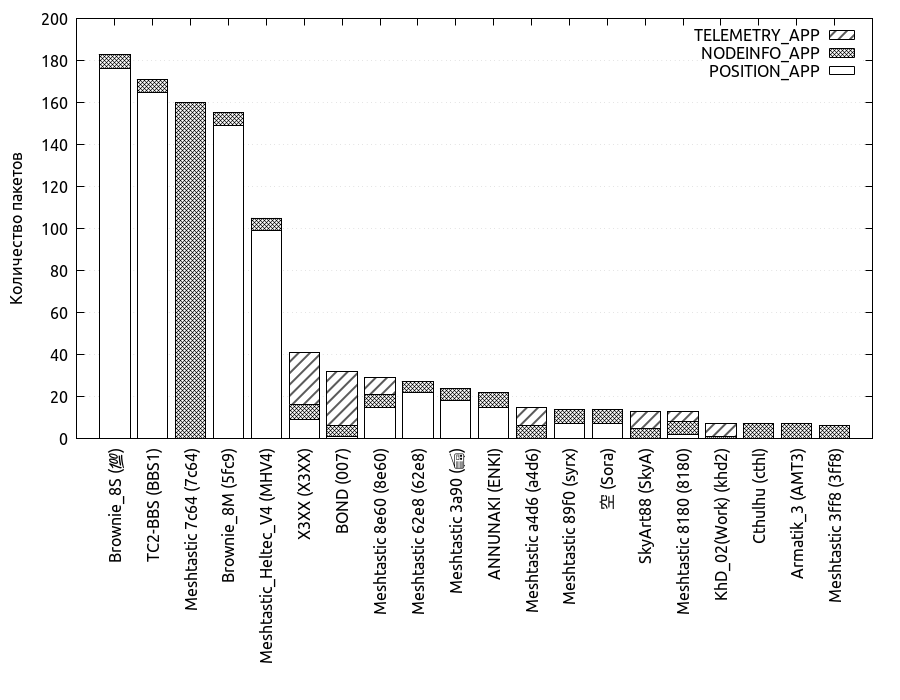
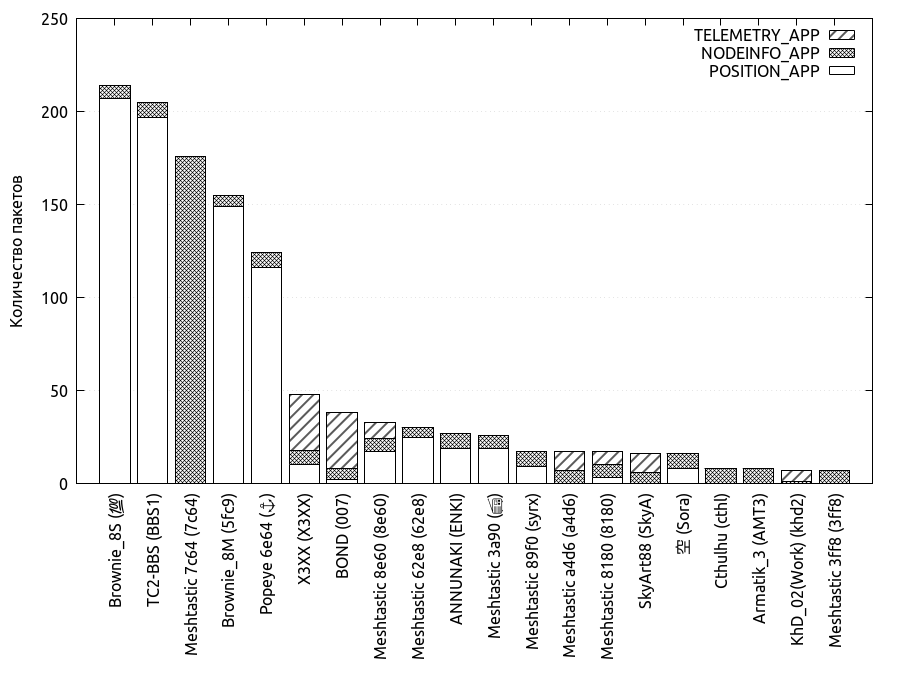
Update: 2026-05-07

diff --git a/spamers/2026-05-07/index.html b/spamers/2026-05-07/index.html
@@ -35,7 +35,7 @@
   <meta property="og:type" content="article">
     <meta property="article:section" content="spamers">
     <meta property="article:published_time" content="2026-05-07T00:00:00+00:00">
-    <meta property="article:modified_time" content="2026-05-07T20:39:04+03:00">
+    <meta property="article:modified_time" content="2026-05-07T23:55:03+03:00">
 
   <meta name="twitter:card" content="summary">
   <meta name="twitter:title" content="2026-05-07">
@@ -72,11 +72,11 @@
   "keywords": [
     
   ],
-  "articleBody": "\n# NodeName Position NodeInfo Telemetry 1 Brownie_8S (💯) 176 7 0 2 TC2-BBS (BBS1) 165 6 0 3 Meshtastic 7c64 (7c64) 0 160 0 4 Brownie_8M (5fc9) 149 6 0 5 Meshtastic_Heltec_V4 (MHV4) 99 6 0 6 X3XX (X3XX) 9 7 25 7 BOND (007) 1 5 26 8 Meshtastic 8e60 (8e60) 15 6 8 9 Meshtastic 62e8 (62e8) 22 5 0 10 Meshtastic 3a90 (📻) 18 6 0 11 ANNUNAKI (ENKI) 15 7 0 12 Meshtastic a4d6 (a4d6) 0 6 9 13 Meshtastic 89f0 (syrx) 7 7 0 14 空 (Sora) 7 7 0 15 SkyArt88 (SkyA) 0 5 8 16 Meshtastic 8180 (8180) 2 6 5 17 KhD_02(Work) (khd2) 0 1 6 18 Cthulhu (cthl) 0 7 0 19 Armatik_3 (AMT3) 0 7 0 20 Meshtastic 3ff8 (3ff8) 0 6 0 21 Professor (MCU2) 1 5 0 22 Emergency (112) 3 3 0 23 DELTA-S (DLT1) 0 5 0 24 jenya (ttl) 0 5 0 25 Solarcore0 (Sun0) 0 5 0 26 Armatik_4 (AMT4) 0 5 0 27 KhD_03 (khd3) 0 3 0 28 ttl bac0 (bac0) 0 3 0 29 Meshtastic d84c (d84c) 0 3 0 30 Meshtastic f1e4 (f1e4) 0 3 0 31 Meshtastic de3b (de3b) 0 3 0 32 Miamiworm (miwr) 0 2 0 33 dwrf (dwrf) 1 0 0 34 Syrex (Auto) (srx3) 0 1 0 35 BALABAN (BALA) 0 1 0 36 UGOLOK (UGOL) 0 1 0 ",
-  "wordCount" : "234",
+  "articleBody": "\n# NodeName Position NodeInfo Telemetry 1 Brownie_8S (💯) 207 7 0 2 TC2-BBS (BBS1) 197 8 0 3 Meshtastic 7c64 (7c64) 0 176 0 4 Brownie_8M (5fc9) 149 6 0 5 Popeye 6e64 (⚓) 116 8 0 6 X3XX (X3XX) 10 8 30 7 BOND (007) 2 6 30 8 Meshtastic 8e60 (8e60) 17 7 9 9 Meshtastic 62e8 (62e8) 25 5 0 10 ANNUNAKI (ENKI) 19 8 0 11 Meshtastic 3a90 (📻) 19 7 0 12 Meshtastic 89f0 (syrx) 9 8 0 13 Meshtastic a4d6 (a4d6) 0 7 10 14 Meshtastic 8180 (8180) 3 7 7 15 SkyArt88 (SkyA) 0 6 10 16 空 (Sora) 8 8 0 17 Cthulhu (cthl) 0 8 0 18 Armatik_3 (AMT3) 0 8 0 19 KhD_02(Work) (khd2) 0 1 6 20 Meshtastic 3ff8 (3ff8) 0 7 0 21 Professor (MCU2) 2 5 0 22 Emergency (112) 3 4 0 23 Armatik_4 (AMT4) 1 6 0 24 DELTA-S (DLT1) 0 6 0 25 Solarcore0 (Sun0) 0 6 0 26 jenya (ttl) 0 5 0 27 KhD_03 (khd3) 0 4 0 28 Meshtastic f1e4 (f1e4) 0 4 0 29 ttl bac0 (bac0) 0 3 0 30 Meshtastic d84c (d84c) 0 3 0 31 Meshtastic de3b (de3b) 0 3 0 32 Miamiworm (miwr) 0 2 0 33 dwrf (dwrf) 1 0 0 34 Syrex (Auto) (srx3) 0 1 0 35 BALABAN (BALA) 0 1 0 36 UGOLOK (UGOL) 0 1 0 ",
+  "wordCount" : "235",
   "inLanguage": "en",
   "datePublished": "2026-05-07T00:00:00Z",
-  "dateModified": "2026-05-07T20:39:04.555313+03:00",
+  "dateModified": "2026-05-07T23:55:03.577821+03:00",
   "mainEntityOfPage": {
     "@type": "WebPage",
     "@id": "https://dwrf.ftp.sh/spamers/2026-05-07/"
@@ -134,22 +134,22 @@
       <tr>
           <td style="text-align: center">1</td>
           <td style="text-align: center">Brownie_8S (💯)</td>
-          <td style="text-align: center">176</td>
+          <td style="text-align: center">207</td>
           <td style="text-align: center">7</td>
           <td style="text-align: center">0</td>
       </tr>
       <tr>
           <td style="text-align: center">2</td>
           <td style="text-align: center">TC2-BBS (BBS1)</td>
-          <td style="text-align: center">165</td>
-          <td style="text-align: center">6</td>
+          <td style="text-align: center">197</td>
+          <td style="text-align: center">8</td>
           <td style="text-align: center">0</td>
       </tr>
       <tr>
           <td style="text-align: center">3</td>
           <td style="text-align: center">Meshtastic 7c64 (7c64)</td>
           <td style="text-align: center">0</td>
-          <td style="text-align: center">160</td>
+          <td style="text-align: center">176</td>
           <td style="text-align: center">0</td>
       </tr>
       <tr>
@@ -161,120 +161,120 @@
       </tr>
       <tr>
           <td style="text-align: center">5</td>
-          <td style="text-align: center">Meshtastic_Heltec_V4 (MHV4)</td>
-          <td style="text-align: center">99</td>
-          <td style="text-align: center">6</td>
+          <td style="text-align: center">Popeye 6e64 (⚓)</td>
+          <td style="text-align: center">116</td>
+          <td style="text-align: center">8</td>
           <td style="text-align: center">0</td>
       </tr>
       <tr>
           <td style="text-align: center">6</td>
           <td style="text-align: center">X3XX (X3XX)</td>
-          <td style="text-align: center">9</td>
-          <td style="text-align: center">7</td>
-          <td style="text-align: center">25</td>
+          <td style="text-align: center">10</td>
+          <td style="text-align: center">8</td>
+          <td style="text-align: center">30</td>
       </tr>
       <tr>
           <td style="text-align: center">7</td>
           <td style="text-align: center">BOND (007)</td>
-          <td style="text-align: center">1</td>
-          <td style="text-align: center">5</td>
-          <td style="text-align: center">26</td>
+          <td style="text-align: center">2</td>
+          <td style="text-align: center">6</td>
+          <td style="text-align: center">30</td>
       </tr>
       <tr>
           <td style="text-align: center">8</td>
           <td style="text-align: center">Meshtastic 8e60 (8e60)</td>
-          <td style="text-align: center">15</td>
-          <td style="text-align: center">6</td>
-          <td style="text-align: center">8</td>
+          <td style="text-align: center">17</td>
+          <td style="text-align: center">7</td>
+          <td style="text-align: center">9</td>
       </tr>
       <tr>
           <td style="text-align: center">9</td>
           <td style="text-align: center">Meshtastic 62e8 (62e8)</td>
-          <td style="text-align: center">22</td>
+          <td style="text-align: center">25</td>
           <td style="text-align: center">5</td>
           <td style="text-align: center">0</td>
       </tr>
       <tr>
           <td style="text-align: center">10</td>
-          <td style="text-align: center">Meshtastic 3a90 (📻)</td>
-          <td style="text-align: center">18</td>
-          <td style="text-align: center">6</td>
+          <td style="text-align: center">ANNUNAKI (ENKI)</td>
+          <td style="text-align: center">19</td>
+          <td style="text-align: center">8</td>
           <td style="text-align: center">0</td>
       </tr>
       <tr>
           <td style="text-align: center">11</td>
-          <td style="text-align: center">ANNUNAKI (ENKI)</td>
-          <td style="text-align: center">15</td>
+          <td style="text-align: center">Meshtastic 3a90 (📻)</td>
+          <td style="text-align: center">19</td>
           <td style="text-align: center">7</td>
           <td style="text-align: center">0</td>
       </tr>
       <tr>
           <td style="text-align: center">12</td>
-          <td style="text-align: center">Meshtastic a4d6 (a4d6)</td>
-          <td style="text-align: center">0</td>
-          <td style="text-align: center">6</td>
+          <td style="text-align: center">Meshtastic 89f0 (syrx)</td>
           <td style="text-align: center">9</td>
+          <td style="text-align: center">8</td>
+          <td style="text-align: center">0</td>
       </tr>
       <tr>
           <td style="text-align: center">13</td>
-          <td style="text-align: center">Meshtastic 89f0 (syrx)</td>
-          <td style="text-align: center">7</td>
-          <td style="text-align: center">7</td>
+          <td style="text-align: center">Meshtastic a4d6 (a4d6)</td>
           <td style="text-align: center">0</td>
+          <td style="text-align: center">7</td>
+          <td style="text-align: center">10</td>
       </tr>
       <tr>
           <td style="text-align: center">14</td>
-          <td style="text-align: center">空 (Sora)</td>
+          <td style="text-align: center">Meshtastic 8180 (8180)</td>
+          <td style="text-align: center">3</td>
           <td style="text-align: center">7</td>
           <td style="text-align: center">7</td>
-          <td style="text-align: center">0</td>
       </tr>
       <tr>
           <td style="text-align: center">15</td>
           <td style="text-align: center">SkyArt88 (SkyA)</td>
           <td style="text-align: center">0</td>
-          <td style="text-align: center">5</td>
-          <td style="text-align: center">8</td>
+          <td style="text-align: center">6</td>
+          <td style="text-align: center">10</td>
       </tr>
       <tr>
           <td style="text-align: center">16</td>
-          <td style="text-align: center">Meshtastic 8180 (8180)</td>
-          <td style="text-align: center">2</td>
-          <td style="text-align: center">6</td>
-          <td style="text-align: center">5</td>
+          <td style="text-align: center">空 (Sora)</td>
+          <td style="text-align: center">8</td>
+          <td style="text-align: center">8</td>
+          <td style="text-align: center">0</td>
       </tr>
       <tr>
           <td style="text-align: center">17</td>
+          <td style="text-align: center">Cthulhu (cthl)</td>
+          <td style="text-align: center">0</td>
+          <td style="text-align: center">8</td>
+          <td style="text-align: center">0</td>
+      </tr>
+      <tr>
+          <td style="text-align: center">18</td>
+          <td style="text-align: center">Armatik_3 (AMT3)</td>
+          <td style="text-align: center">0</td>
+          <td style="text-align: center">8</td>
+          <td style="text-align: center">0</td>
+      </tr>
+      <tr>
+          <td style="text-align: center">19</td>
           <td style="text-align: center">KhD_02(Work) (khd2)</td>
           <td style="text-align: center">0</td>
           <td style="text-align: center">1</td>
           <td style="text-align: center">6</td>
       </tr>
       <tr>
-          <td style="text-align: center">18</td>
-          <td style="text-align: center">Cthulhu (cthl)</td>
-          <td style="text-align: center">0</td>
-          <td style="text-align: center">7</td>
-          <td style="text-align: center">0</td>
-      </tr>
-      <tr>
-          <td style="text-align: center">19</td>
-          <td style="text-align: center">Armatik_3 (AMT3)</td>
-          <td style="text-align: center">0</td>
-          <td style="text-align: center">7</td>
-          <td style="text-align: center">0</td>
-      </tr>
-      <tr>
           <td style="text-align: center">20</td>
           <td style="text-align: center">Meshtastic 3ff8 (3ff8)</td>
           <td style="text-align: center">0</td>
-          <td style="text-align: center">6</td>
+          <td style="text-align: center">7</td>
           <td style="text-align: center">0</td>
       </tr>
       <tr>
           <td style="text-align: center">21</td>
           <td style="text-align: center">Professor (MCU2)</td>
-          <td style="text-align: center">1</td>
+          <td style="text-align: center">2</td>
           <td style="text-align: center">5</td>
           <td style="text-align: center">0</td>
       </tr>
@@ -282,33 +282,33 @@
           <td style="text-align: center">22</td>
           <td style="text-align: center">Emergency (112)</td>
           <td style="text-align: center">3</td>
-          <td style="text-align: center">3</td>
+          <td style="text-align: center">4</td>
           <td style="text-align: center">0</td>
       </tr>
       <tr>
           <td style="text-align: center">23</td>
-          <td style="text-align: center">DELTA-S (DLT1)</td>
-          <td style="text-align: center">0</td>
-          <td style="text-align: center">5</td>
+          <td style="text-align: center">Armatik_4 (AMT4)</td>
+          <td style="text-align: center">1</td>
+          <td style="text-align: center">6</td>
           <td style="text-align: center">0</td>
       </tr>
       <tr>
           <td style="text-align: center">24</td>
-          <td style="text-align: center">jenya (ttl)</td>
+          <td style="text-align: center">DELTA-S (DLT1)</td>
           <td style="text-align: center">0</td>
-          <td style="text-align: center">5</td>
+          <td style="text-align: center">6</td>
           <td style="text-align: center">0</td>
       </tr>
       <tr>
           <td style="text-align: center">25</td>
           <td style="text-align: center">Solarcore0 (Sun0)</td>
           <td style="text-align: center">0</td>
-          <td style="text-align: center">5</td>
+          <td style="text-align: center">6</td>
           <td style="text-align: center">0</td>
       </tr>
       <tr>
           <td style="text-align: center">26</td>
-          <td style="text-align: center">Armatik_4 (AMT4)</td>
+          <td style="text-align: center">jenya (ttl)</td>
           <td style="text-align: center">0</td>
           <td style="text-align: center">5</td>
           <td style="text-align: center">0</td>
@@ -317,26 +317,26 @@
           <td style="text-align: center">27</td>
           <td style="text-align: center">KhD_03 (khd3)</td>
           <td style="text-align: center">0</td>
-          <td style="text-align: center">3</td>
+          <td style="text-align: center">4</td>
           <td style="text-align: center">0</td>
       </tr>
       <tr>
           <td style="text-align: center">28</td>
+          <td style="text-align: center">Meshtastic f1e4 (f1e4)</td>
+          <td style="text-align: center">0</td>
+          <td style="text-align: center">4</td>
+          <td style="text-align: center">0</td>
+      </tr>
+      <tr>
+          <td style="text-align: center">29</td>
           <td style="text-align: center">ttl bac0 (bac0)</td>
           <td style="text-align: center">0</td>
           <td style="text-align: center">3</td>
           <td style="text-align: center">0</td>
       </tr>
       <tr>
-          <td style="text-align: center">29</td>
-          <td style="text-align: center">Meshtastic d84c (d84c)</td>
-          <td style="text-align: center">0</td>
-          <td style="text-align: center">3</td>
-          <td style="text-align: center">0</td>
-      </tr>
-      <tr>
           <td style="text-align: center">30</td>
-          <td style="text-align: center">Meshtastic f1e4 (f1e4)</td>
+          <td style="text-align: center">Meshtastic d84c (d84c)</td>
           <td style="text-align: center">0</td>
           <td style="text-align: center">3</td>
           <td style="text-align: center">0</td>
